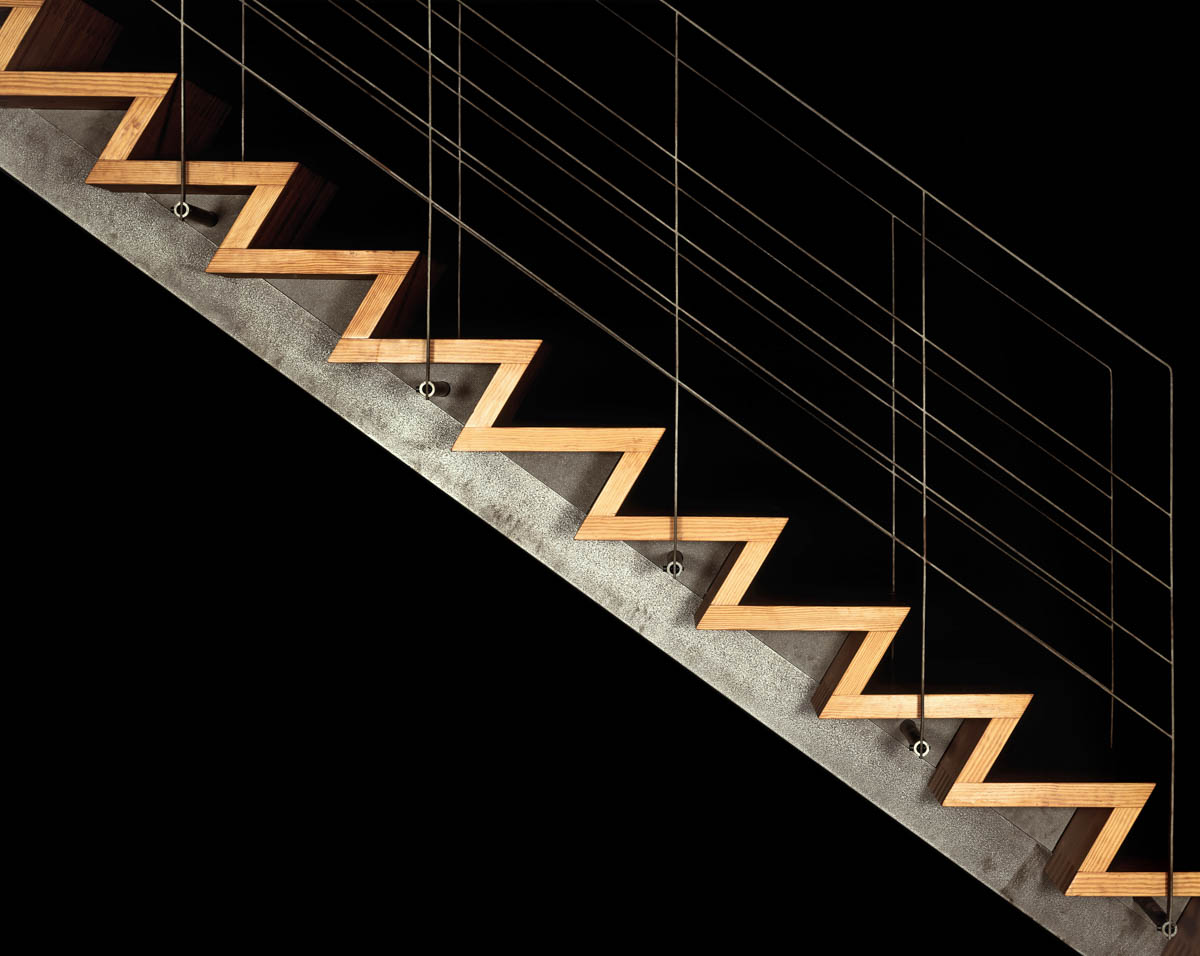
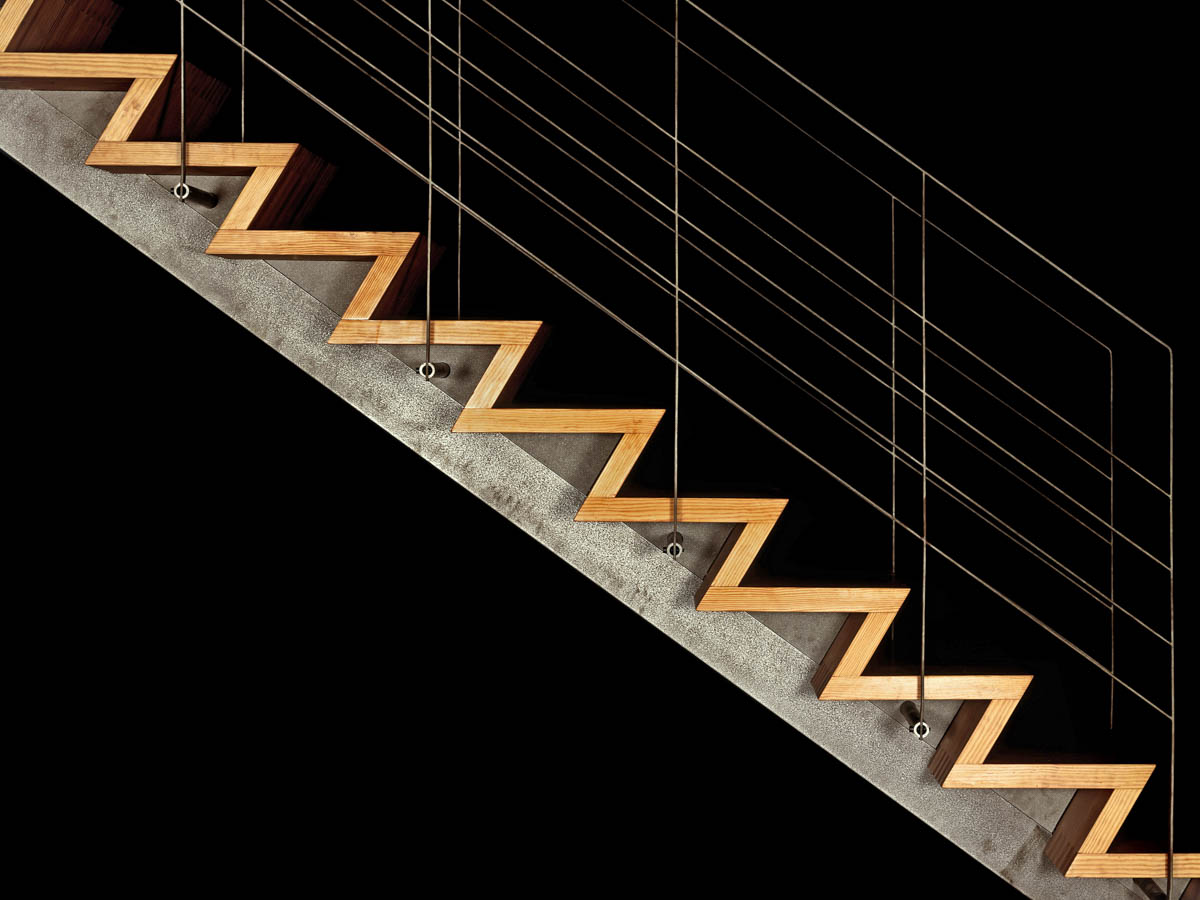
Bildmaße verkürzt, Variable ergänzt (beim 1. Architekturbild)

diff --git a/collections/_architecture/01-1037-26.md b/collections/_architecture/01-1037-26.md
@@ -7,10 +7,10 @@ year: 1991
 archive_id: ""
 description: "House G"
 prints:
--   variable: small
+-   variable: 4zu3_small
     price: "120,00 €"
--   title: "67 cm x 90 cm </br> Edition of 6 + 2 AP </br></br>"
+-   variable: 4zu3_medium
     price: "450,00 €"
--   title: "90 cm x 120 cm </br> Edition of 6 + 2 AP"
+-   variable: 4zu3_large
     price: "600,00 €"
 ---
